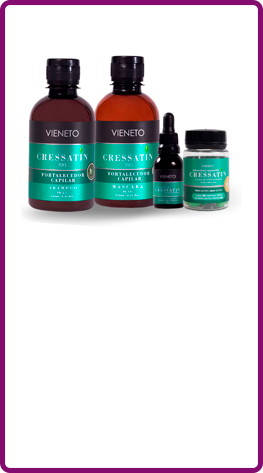
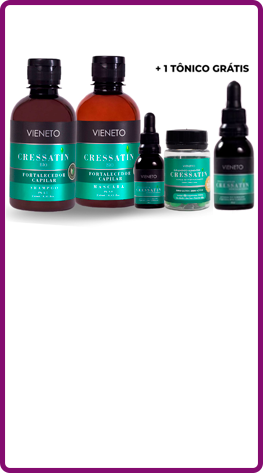
change cards

Changed region(s): [[0.0304, 0.1184, 0.9734, 0.4736]]

diff --git a/index.html b/index.html
@@ -107,12 +107,18 @@
       </div>
       <div class="cards">
         <div class="produtos primeiro-produto">
-          <p class="produto-title">COMBO 250ML</p>
-          <p class="produto-descricao">Na compra desse combo você tem:
-            Parcelamento em até 12x
-            +1 Tônico GRÁTIS</p>
-          <p class="produto-title">EM ATÉ 12X DE
-            R$99,99</p>
+          <p class="produto-title">1° COMBO 250ML</p>
+          <p class="produto-descricao">Shampoo + Máscara Fortalecedora + Tônico Capilar</p>
+          <p class="produto-title">EM ATÉ 2X DE
+            R$64,95 Ou R$129,90 à vista</p>
+            <p class="produto-descricao">R$11 ,95 de frete</p>
+          <a href="#"><img id="btn-card" src="Imagens/Produtos/button-card.png" alt=""></a>
+        </div>
+        <div class="produtos segundo-produto">
+          <p class="produto-title">2° COMBO 250ML</p>
+          <p class="produto-descricao">Shampoo + Máscara Fortalecedora + Tônico Capilar</p>
+          <p class="produto-title">EM ATÉ 4X DE
+            R$47,97 Ou R$189,90 à vista</p>
           <img id="card-frete" src="Imagens/Produtos/FRETE.png" alt="">
           <a href="#"><img id="btn-card" src="Imagens/Produtos/button-card.png" alt=""></a>
         </div>
@@ -136,6 +142,7 @@
           <img id="card-frete" src="Imagens/Produtos/FRETE.png" alt="">
           <a href="#"><img id="btn-card" src="Imagens/Produtos/button-card.png" alt=""></a>
         </div>
+       
         <div class="produtos quinto-produto">
           <p class="produto-title">COMBO 250ML</p>
           <p class="produto-descricao">Na compra desse combo você tem:
@@ -186,46 +193,7 @@
           <img id="card-frete" src="Imagens/Produtos/FRETE.png" alt="">
           <a href="#"><img id="btn-card" src="Imagens/Produtos/button-card.png" alt=""></a>
         </div>
-        <div class="produtos decimo-produto">
-          <p class="produto-title">COMBO 250ML</p>
-          <p class="produto-descricao">Na compra desse combo você tem:
-            Parcelamento em até 12x
-            +1 Tônico GRÁTIS</p>
-          <p class="produto-title">EM ATÉ 12X DE
-            R$99,99</p>
-          <img id="card-frete" src="Imagens/Produtos/FRETE.png" alt="">
-          <a href="#"><img id="btn-card" src="Imagens/Produtos/button-card.png" alt=""></a>
-        </div>
-        <div class="produtos decimoPrim-produto">
-          <p class="produto-title">COMBO 250ML</p>
-          <p class="produto-descricao">Na compra desse combo você tem:
-            Parcelamento em até 12x
-            +1 Tônico GRÁTIS</p>
-          <p class="produto-title">EM ATÉ 12X DE
-            R$99,99</p>
-          <img id="card-frete" src="Imagens/Produtos/FRETE.png" alt="">
-          <a href="#"><img id="btn-card" src="Imagens/Produtos/button-card.png" alt=""></a>
-        </div>
-        <div class="produtos decimoSeg-produto">
-          <p class="produto-title">COMBO 250ML</p>
-          <p class="produto-descricao">Na compra desse combo você tem:
-            Parcelamento em até 12x
-            +1 Tônico GRÁTIS</p>
-          <p class="produto-title">EM ATÉ 12X DE
-            R$99,99</p>
-          <img id="card-frete" src="Imagens/Produtos/FRETE.png" alt="">
-          <a href="#"><img id="btn-card" src="Imagens/Produtos/button-card.png" alt=""></a>
-        </div>
-        <div class="produtos decimoTer-produto">
-          <p class="produto-title">COMBO 250ML</p>
-          <p class="produto-descricao">Na compra desse combo você tem:
-            Parcelamento em até 12x
-            +1 Tônico GRÁTIS</p>
-          <p class="produto-title">EM ATÉ 12X DE
-            R$99,99</p>
-          <img id="card-frete" src="Imagens/Produtos/FRETE.png" alt="">
-          <a href="#"><img id="btn-card" src="Imagens/Produtos/button-card.png" alt=""></a>
-        </div>
+       
       </div>
     </section>
     <footer></footer>

diff --git a/Assets/main.css b/Assets/main.css
@@ -19,10 +19,7 @@ body {
   height: 100%;
 }
 .home {
-  background: url(../Imagens/folhas.png),
-    linear-gradient(180deg, #d37597 0%, #ff8a84 98.5%);
-  background-repeat: no-repeat;
-  mix-blend-mode: multiply;
+  background: linear-gradient(180deg, #d37597 0%, #ff8a84 98.5%);
   width: 100%;
   min-height: 62.5rem;
 }
@@ -165,11 +162,6 @@ a {
   height: 300px;
 }
 @media (max-width: 454px) {
-  .home {
-    background: url(../Imagens/Produtos/flowers.png), linear-gradient(180deg, #d37597 0%, #ff8a84 98.5%);
-    background-repeat: no-repeat;
-    mix-blend-mode: multiply;
-  }
   #folha {
     width: 60%;
     height: 20%;

diff --git a/Assets/cards.css b/Assets/cards.css
@@ -14,7 +14,7 @@
     width: 104%;
 }
 #btn-card{
-    width: 70%;
+    width: 85%;
 }
 .primeiro-produto{
     background-image: url(../Imagens/Produtos/1.png);
